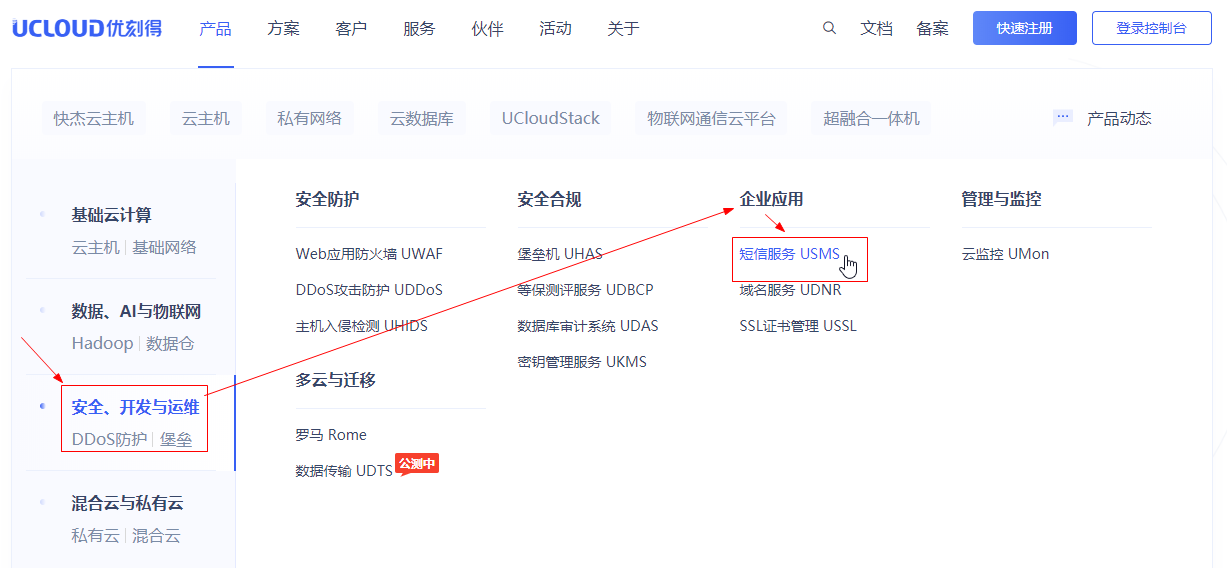
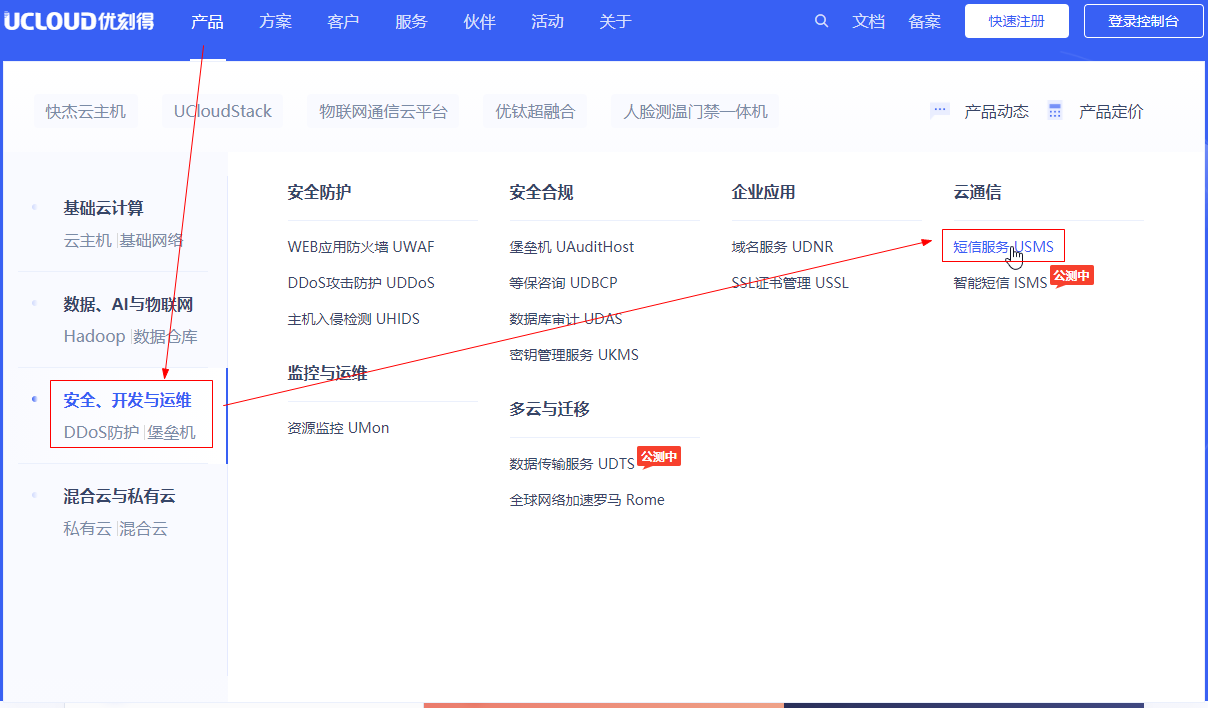
update the guide docs

diff --git a/introduction/2009.md b/introduction/2009.md
@@ -6,6 +6,7 @@
 
 | 更新时间   | 产品版本 | 更新类型 | 更新内容                                                     |
 | ---------- | -------- | -------- | ------------------------------------------------------------ |
+| 2021.03.30 | v1.1.95  | 产品功能 | 1.新增：短信发送各类状态报告统计分析(失败率分析)<br/>        |
 | 2021.02.04 | v1.1.9   | 产品功能 | 1.新增：富媒体短信（视频短信）Beta版 试运行<br />2.新增：支持状态报告及上行消息接收地址配置<br />3.优化：短信发送后记录查询&数据统计体验优化<br />4.优化：国际及港澳台短信的短信签名、模板申请体验优化 |
 | 2020.04.23 | v1.1.7   | 产品功能 | 1.新增：支持国内、国际及港澳台短信发送数据统计查询           |
 | 2019.08.15 | v1.1.5   | 产品功能 | 1.新增：支持web页面群发功能(支持定时任务)<br>2.新增：提供SDK及接口开发指南信息<br>3.新增：发送接口支持自定义扩展码（需先提交工单申请）<br>4.修复：批量发送短信时含有非法号码直接拦截问题 |

diff --git a/guide/5001.md b/guide/5001.md
@@ -1,10 +1,10 @@
-# 如何找到短信服务
+# 如果购买短信服务
 
 
 
 ## 一、短信服务USMS 产品主页
 
-1、**菜单路径**：**UCloud官网**点击"**产品**"一级菜单,找到"**监控与管理**"，选择“**短信服务 USMS**”
+1、**菜单路径**：**UCloud官网**点击"**产品**"一级菜单,找到"**云通信**"，选择“**短信服务 USMS**”
 
 ![image](../images/guide/短信服务usms_官网菜单_01.png)
 
